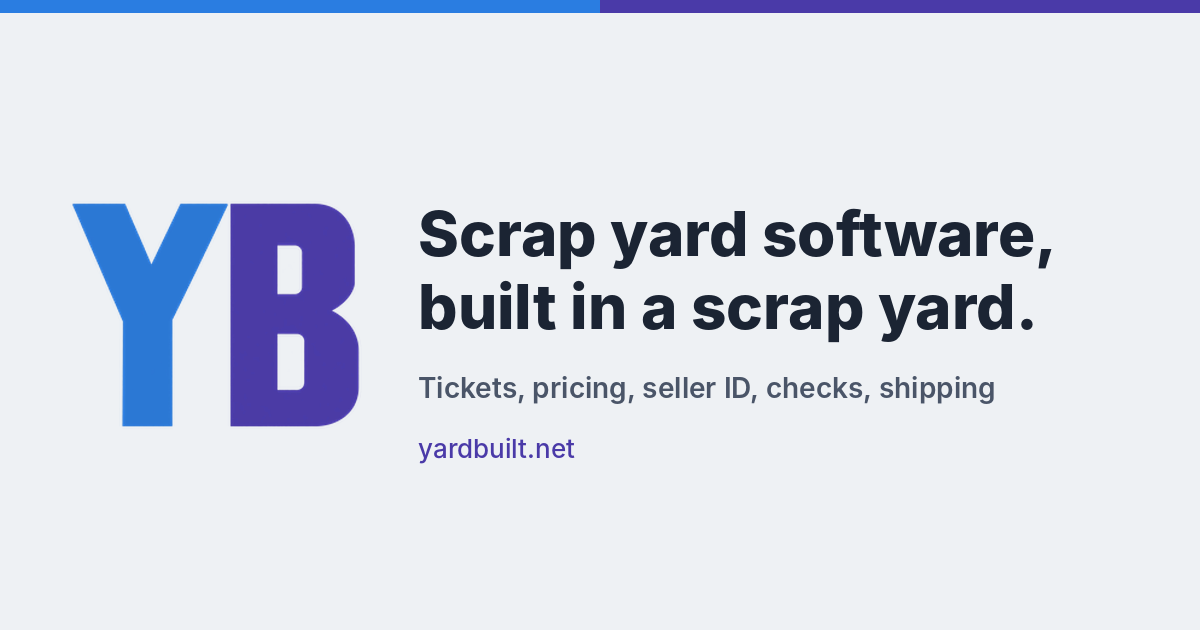
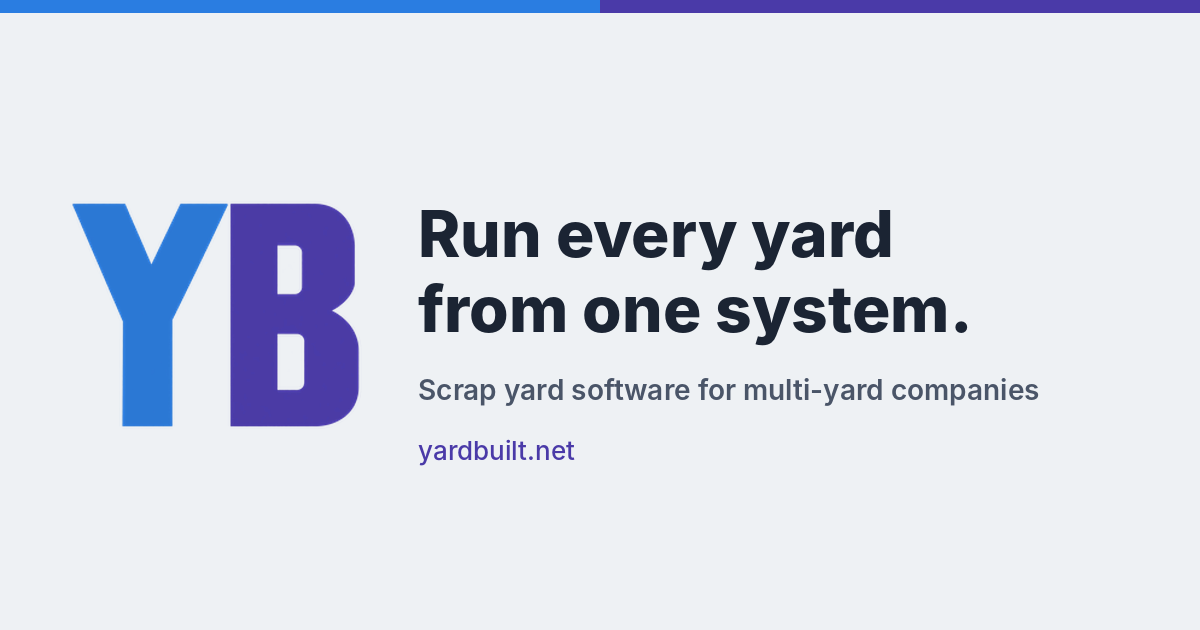
Site: drop Langer Industrial, position for multi-yard scrap companies
New headline 'Run every yard from one system', multi-yard section in place of the
company story, neutral yard names in examples, refreshed share card and meta.

Claude-Session: https://claude.ai/code/session_0178VszqWbnpsjGQTps6gSBT

Changed region(s): [[0.3392, 0.3317, 0.8942, 0.5429], [0.3392, 0.6032, 0.8633, 0.6333], [0.3392, 0.6937, 0.4933, 0.754]]

diff --git a/src/site/index.html b/src/site/index.html
@@ -3,15 +3,15 @@
 <head>
 <meta charset="UTF-8">
 <meta name="viewport" content="width=device-width, initial-scale=1">
-<title>Yard-Built — Scrap yard software, built in a scrap yard</title>
-<meta name="description" content="Yard-Built runs the scale house, the cashier window and the back office of a scrap yard: tickets, dealer pricing, seller ID, checks and Positive Pay, inventory, shipping and documents. Developed by Langer Industrial.">
+<title>Yard-Built — Run every scrap yard from one system</title>
+<meta name="description" content="Scrap yard software for companies with more than one yard: tickets, dealer pricing, seller ID, checks and Positive Pay, inventory, shipping and documents for every location in one system.">
 <meta name="theme-color" content="#1b2433">
 <link rel="icon" href="/icon.png">
 <link rel="apple-touch-icon" href="/icon.png">
 <meta property="og:type" content="website">
 <meta property="og:site_name" content="Yard-Built">
-<meta property="og:title" content="Yard-Built — Scrap yard software, built in a scrap yard">
-<meta property="og:description" content="Tickets, dealer pricing, seller ID, checks and Positive Pay, inventory, shipping and documents in one system. Developed by Langer Industrial.">
+<meta property="og:title" content="Yard-Built — Run every scrap yard from one system">
+<meta property="og:description" content="Tickets, dealer pricing, seller ID, checks and Positive Pay, inventory, shipping and documents for every yard you run, in one system.">
 <meta property="og:url" content="https://www.yardbuilt.net/">
 <meta property="og:image" content="https://www.yardbuilt.net/og-image.png">
 <meta property="og:image:width" content="1200">
@@ -183,8 +183,8 @@
   <div class="hero">
     <div class="wrap">
       <div>
-        <h1>Scrap yard software, built in a scrap yard.</h1>
-        <p class="lede">Yard-Built runs the scale house, the cashier window and the back office in one system. It's developed inside Langer Industrial's yards in Nebraska, Kansas and South Dakota, around real tickets, real dealers and real check runs.</p>
+        <h1>Run every yard from one system.</h1>
+        <p class="lede">Yard-Built is scrap yard software for companies with more than one location. Every scale, cashier window and back office works from the same tickets, prices, checks and inventory, and you see all of it from one screen.</p>
         <div class="cta">
           <a class="btn primary" href="#demo">Request a demo</a>
           <a class="btn line" href="https://app.yardbuilt.net/">Log in</a>
@@ -192,7 +192,7 @@
       </div>
 
       <div class="scale" aria-label="Example: a load weighed in and its ticket">
-        <div class="scale-top"><span>Inbound scale, Scottsbluff</span><span class="lamp" id="lamp"><i></i><span id="lamp-text">Settling</span></span></div>
+        <div class="scale-top"><span>Inbound scale, North yard</span><span class="lamp" id="lamp"><i></i><span id="lamp-text">Settling</span></span></div>
         <div class="readout" role="img" aria-label="Gross weight 42,380 pounds">
           <span class="mode">Gross</span><span class="num" id="weight">0</span><span class="unit">lb</span>
         </div>
@@ -245,13 +245,13 @@
           <p>Sequential check numbers per account, a check register with cleared and outstanding balances, and a Positive Pay file in the format your bank already takes.</p>
         </div>
         <div class="feature">
-          <h3>Every yard, one system</h3>
-          <p>Switch yards from the top bar, or roll everything up to a company-wide view. Users can be limited to the yards they work at.</p>
+          <h3>Freight and trailers</h3>
+          <p>Carriers, lanes and trailers in one place, with the freight cost on every outbound load so gross profit is real, not estimated.</p>
         </div>
         <div class="feature">
           <h3>Ask it a question</h3>
           <p>A built-in assistant answers in plain English from your own tickets, prices and payables.</p>
-          <q>What did we pay out on copper at Hays this week?</q>
+          <q>What did we pay out on copper at the north yard this week?</q>
         </div>
         <div class="feature">
           <h3>Works at the scale and in the yard</h3>
@@ -272,14 +272,15 @@
   <section class="band story" id="about">
     <div class="wrap">
       <div>
-        <h2>Made by a scrap company, not a software company</h2>
-        <p class="intro" style="margin-bottom:0;">Yard-Built is developed by Langer Industrial, a family-owned scrap metal company headquartered in Scottsbluff, Nebraska. It's shaped by the daily work of our own yards: the tickets, the dealers, the check runs and the loads going out the gate.</p>
+        <h2>Built for companies with more than one yard</h2>
+        <p class="intro" style="margin-bottom:0;">Running several yards usually means separate systems, separate logins and a spreadsheet to tie them together. Yard-Built was made by people who run several yards at once, so each location keeps its own scale, cashier and bank account while the owner sees the whole company in one place.</p>
       </div>
-      <ul class="yards" aria-label="Langer Industrial yards">
-        <li>Scottsbluff <span>Nebraska, headquarters</span></li>
-        <li>Hays <span>Kansas</span></li>
-        <li>Colby <span>Kansas</span></li>
-        <li>Rapid City <span>South Dakota</span></li>
+      <ul class="yards" aria-label="Multi-yard features">
+        <li>Switch yards in one click <span>or view the whole company</span></li>
+        <li>One price sheet <span>with adjustments by yard</span></li>
+        <li>A bank account per yard <span>one Positive Pay file for all</span></li>
+        <li>Staff see their own yards <span>owners see everything</span></li>
+        <li>Company-wide reports <span>or one yard at a time</span></li>
       </ul>
     </div>
   </section>
@@ -287,7 +288,7 @@
   <section class="demo" id="demo">
     <div class="wrap">
       <div>
-        <h2>See it run on your yard's numbers</h2>
+        <h2>See it run on your yards' numbers</h2>
         <p class="intro">Tell us a little about your operation and we'll set up a time to walk through Yard-Built with you.</p>
         <p class="contact-alt">Already using Yard-Built? <a href="https://app.yardbuilt.net/">Log in here</a>.</p>
       </div>
@@ -311,7 +312,7 @@
 <footer>
   <div class="wrap">
     <a class="brand" href="/"><img src="/icon.png" alt="">Yard-Built</a>
-    <span>© 2026 Langer Industrial. Yard-Built is in beta.</span>
+    <span>© 2026 Yard-Built. Now in beta.</span>
     <span class="grow"><a href="#demo">Request a demo</a><a href="https://app.yardbuilt.net/">Log in</a></span>
   </div>
 </footer>
